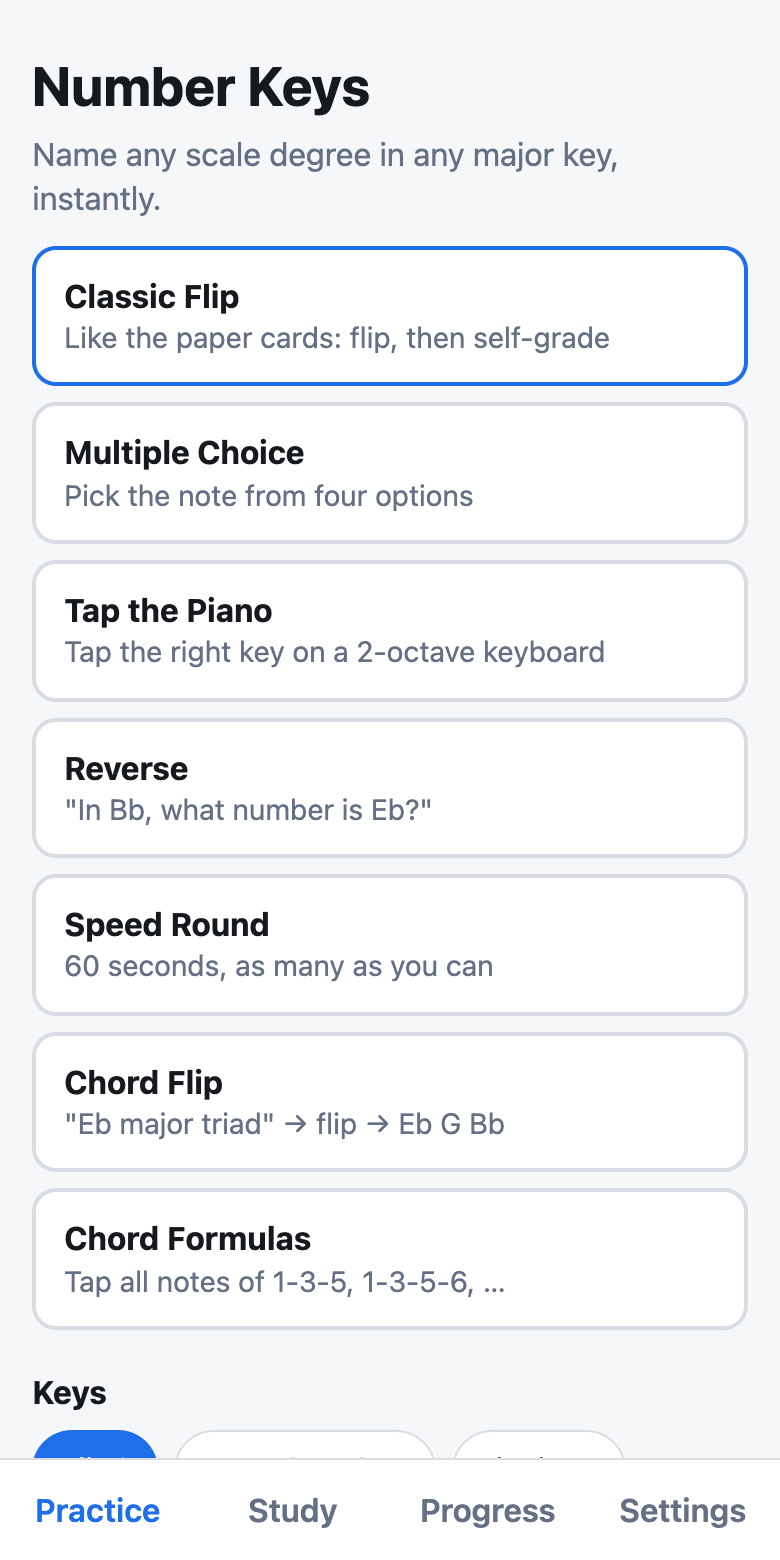
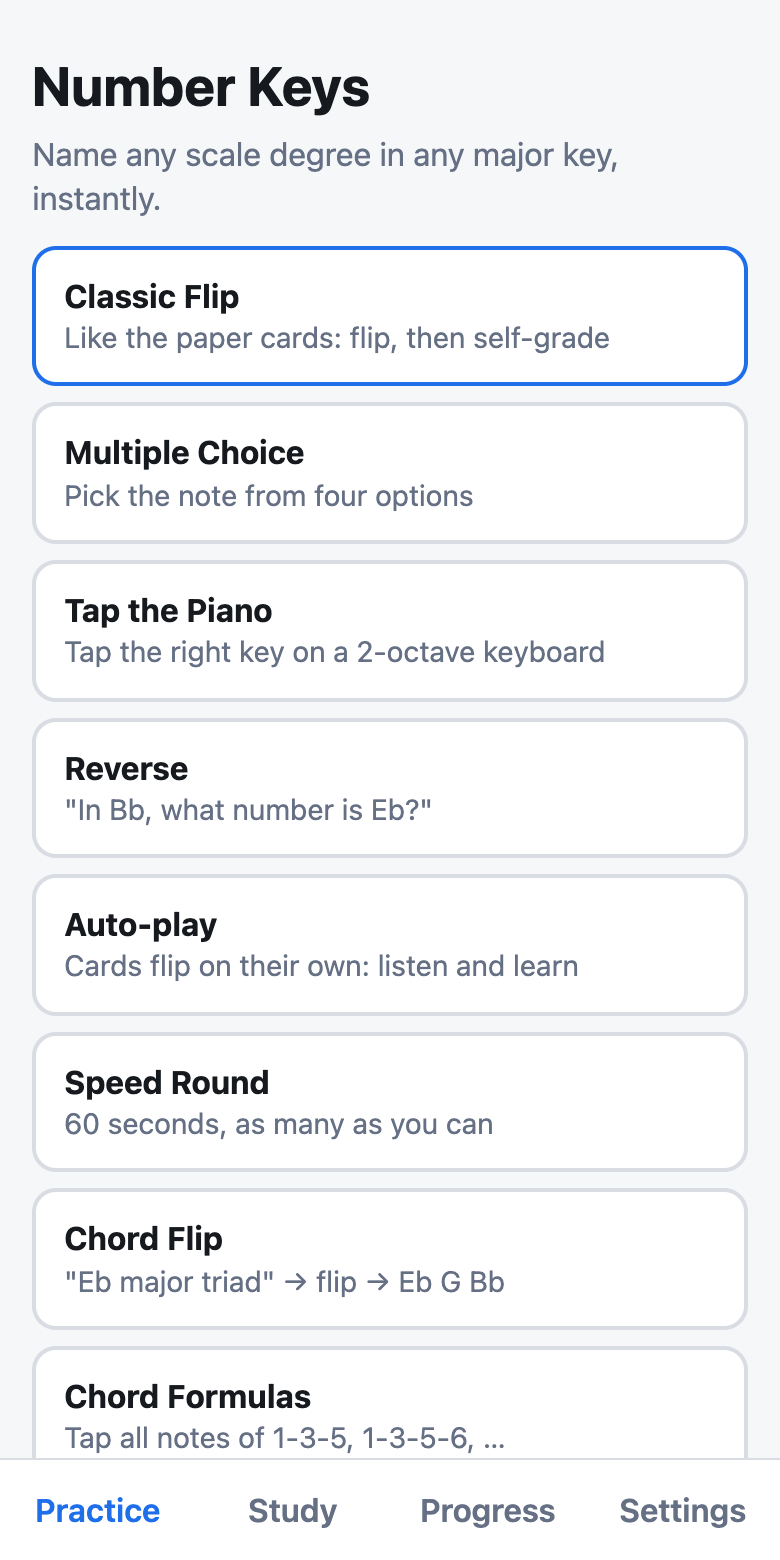
Add Auto-play: cards that flip, speak and advance on their own
Passive-learning mode for scale cards with Slow/Medium/Fast pacing, a voice
toggle that waits for speech to finish, pause/resume and a screen wake lock.
Records nothing, like Loop. Docs, screenshots and tests updated.

diff --git a/src/screens/AutoPlay.tsx b/src/screens/AutoPlay.tsx
@@ -1,0 +1,106 @@
+import { useEffect, useMemo, useRef, useState } from 'react'
+import { ORDINAL } from '../data/deck'
+import { AUTO_SPEEDS, AutoSpeed, MAX_SPEECH_WAIT_MS, passQueue } from '../lib/autoplay'
+import { playPc } from '../lib/audio'
+import { viewCard } from '../lib/cards'
+import { Filter, filterCards } from '../lib/session'
+import { canSpeak, scaleCardSpeech, speak, stopSpeaking } from '../lib/speech'
+import { pitchClass } from '../lib/theory'
+import { keepAwake } from '../lib/wakeLock'
+import { Card } from '../components/Card'
+import { MiniScale } from '../components/MiniScale'
+import { useApp } from '../state/store'
+
+/**
+ * Passive learning: each selected card is shown, then its answer is revealed (and spoken if Speak answers
+ * is on), then the next card follows by itself, round and round until you quit. Nothing here is recorded:
+ * you are listening, not being tested, so it must not touch spaced-repetition stats or the streak.
+ */
+export function AutoPlay({ filter, onExit }: { filter: Filter; onExit: () => void }) {
+  const { settings, setSettings } = useApp()
+  const [base] = useState(() => filterCards(filter))
+  const [i, setI] = useState(0)
+  const [phase, setPhase] = useState<'front' | 'back'>('front')
+  const [paused, setPaused] = useState(false)
+
+  const pass = Math.floor(i / base.length)
+  // eslint-disable-next-line react-hooks/exhaustive-deps
+  const queue = useMemo(() => passQueue(base, filter.order), [base, filter.order, pass])
+  const card = queue[i % base.length]
+  const v = viewCard(card, settings.sharpGb)
+
+  // Settings read when a step starts, so changing speed or voice mid-card takes effect from the next step.
+  const live = useRef(settings)
+  live.current = settings
+
+  useEffect(() => {
+    if (paused) return
+    const speeds = AUTO_SPEEDS[live.current.autoSpeed]
+    if (phase === 'front') {
+      const t = window.setTimeout(() => setPhase('back'), speeds.front)
+      return () => window.clearTimeout(t)
+    }
+    // Answer side: move on once the pause has passed AND the voice has finished, so it is never cut off.
+    let timerDone = false
+    let speechDone = !live.current.speak
+    let over = false
+    const next = () => {
+      if (!over && timerDone && speechDone) {
+        setPhase('front')
+        setI((x) => x + 1)
+      }
+    }
+    playPc(pitchClass(v.answer), 4, live.current.muted)
+    if (live.current.speak) speak(scaleCardSpeech(card.degree, v.keyName, v.answer), () => { speechDone = true; next() })
+    const t1 = window.setTimeout(() => { timerDone = true; next() }, speeds.back)
+    const t2 = window.setTimeout(() => { speechDone = true; next() }, MAX_SPEECH_WAIT_MS)
+    return () => {
+      over = true
+      window.clearTimeout(t1)
+      window.clearTimeout(t2)
+      stopSpeaking()
+    }
+    // eslint-disable-next-line react-hooks/exhaustive-deps
+  }, [phase, i, paused])
+
+  useEffect(() => (paused ? undefined : keepAwake()), [paused])
+
+  return (
+    <div className="session">
+      <div className="topbar">
+        <button className="link" onClick={onExit}>Quit</button>
+        <span>{paused ? 'Paused' : `${i + (phase === 'back' ? 1 : 0)} played`}</span>
+        <button className="link" onClick={() => setPaused((p) => !p)}>{paused ? 'Resume' : 'Pause'}</button>
+      </div>
+      <div className="q">
+        <Card flipped={phase === 'back'}>
+          {phase === 'front' ? (
+            <>
+              <div className="card-small">{ORDINAL[card.degree]} Tone</div>
+              <div className="card-big">{v.keyName}</div>
+            </>
+          ) : (
+            <>
+              <div className="card-small">{ORDINAL[card.degree]} tone of {v.keyName}</div>
+              <div className="card-big">{v.answer}</div>
+            </>
+          )}
+        </Card>
+        {phase === 'back' ? <MiniScale scale={v.scale} highlightDegree={card.degree} /> : <div className="autospace" />}
+        <div className="chips autocontrols">
+          {(Object.keys(AUTO_SPEEDS) as AutoSpeed[]).map((s) => (
+            <button key={s} className={`chip ${settings.autoSpeed === s ? 'on' : ''}`} onClick={() => setSettings({ autoSpeed: s })}>
+              {AUTO_SPEEDS[s].label}
+            </button>
+          ))}
+          {canSpeak() && (
+            <button className={`chip ${settings.speak ? 'on' : ''}`} onClick={() => setSettings({ speak: !settings.speak })}>
+              Voice {settings.speak ? 'on' : 'off'}
+            </button>
+          )}
+        </div>
+        <p className="muted loopstats">Cards play on their own and are not counted in Progress.</p>
+      </div>
+    </div>
+  )
+}

diff --git a/src/screens/Home.tsx b/src/screens/Home.tsx
@@ -1,6 +1,6 @@
 import { useState } from 'react'
 import { FilterPanel } from '../components/FilterPanel'
-import { Filter, defaultFilter, filterCards } from '../lib/session'
+import { Filter, Order, defaultFilter, filterCards } from '../lib/session'
 import { useApp } from '../state/store'
 import { Mode } from './Session'
 
@@ -9,10 +9,15 @@ const MODES: { id: Mode; name: string; desc: string }[] = [
   { id: 'choice', name: 'Multiple Choice', desc: 'Pick the note from four options' },
   { id: 'piano', name: 'Tap the Piano', desc: 'Tap the right key on a 2-octave keyboard' },
   { id: 'reverse', name: 'Reverse', desc: '"In Bb, what number is Eb?"' },
+  { id: 'auto', name: 'Auto-play', desc: 'Cards flip on their own: listen and learn' },
   { id: 'speed', name: 'Speed Round', desc: '60 seconds, as many as you can' },
   { id: 'chordflip', name: 'Chord Flip', desc: '"Eb major triad" → flip → Eb G Bb' },
   { id: 'chords', name: 'Chord Formulas', desc: 'Tap all notes of 1-3-5, 1-3-5-6, …' },
 ]
+
+/** Which orders make sense for each mode: Loop is for Classic Flip, Auto-play can't use Smart review. */
+const orderChoices = (m: Mode): Order[] =>
+  m === 'flip' ? ['original', 'shuffled', 'smart', 'loop'] : m === 'auto' ? ['original', 'shuffled'] : ['original', 'shuffled', 'smart']
 
 export function Home({ onStart, filter, setFilter }: { onStart: (m: Mode) => void; filter: Filter; setFilter: (f: Filter) => void }) {
   const { settings } = useApp()
@@ -27,13 +32,13 @@ export function Home({ onStart, filter, setFilter }: { onStart: (m: Mode) => voi
       <p className="muted">Name any scale degree in any major key, instantly.</p>
       <div className="modes">
         {MODES.map((m) => (
-          <button key={m.id} className={`mode ${mode === m.id ? 'on' : ''}`} onClick={() => { setMode(m.id); if (m.id !== 'flip' && filter.order === 'loop') setFilter({ ...filter, order: 'original' }) }}>
+          <button key={m.id} className={`mode ${mode === m.id ? 'on' : ''}`} onClick={() => { setMode(m.id); if (!orderChoices(m.id).includes(filter.order)) setFilter({ ...filter, order: 'original' }) }}>
             <b>{m.name}</b><span>{m.desc}</span>
           </button>
         ))}
       </div>
       <FilterPanel filter={filter} onChange={setFilter} sharpGb={settings.sharpGb}
-        showOrder={mode !== 'speed' && mode !== 'chords' && mode !== 'chordflip'} showLoop={mode === 'flip'} />
+        showOrder={mode !== 'speed' && mode !== 'chords' && mode !== 'chordflip'} orders={orderChoices(mode)} />
       <button className="btn primary wide start" disabled={disabled} onClick={() => onStart(mode)}>Start</button>
       <button className="link" onClick={() => setFilter(defaultFilter())}>Reset filters</button>
     </div>

diff --git a/src/components/FilterPanel.tsx b/src/components/FilterPanel.tsx
@@ -6,13 +6,14 @@ import { useDoubleTap } from '../lib/useDoubleTap'
 const same = (a: unknown[], b: unknown[]) => a.length === b.length && a.every((x) => b.includes(x))
 const toggle = <T,>(arr: T[], x: T) => (arr.includes(x) ? arr.filter((y) => y !== x) : [...arr, x])
 
-export function FilterPanel({ filter, onChange, sharpGb, showOrder = true, showLoop = false }: {
-  filter: Filter; onChange: (f: Filter) => void; sharpGb: boolean; showOrder?: boolean; showLoop?: boolean
+const ALL_ORDERS: [Order, string][] = [['original', 'Original'], ['shuffled', 'Shuffled'], ['smart', 'Smart review'], ['loop', 'Loop']]
+
+export function FilterPanel({ filter, onChange, sharpGb, showOrder = true, orders: offered = ['original', 'shuffled', 'smart'] }: {
+  filter: Filter; onChange: (f: Filter) => void; sharpGb: boolean; showOrder?: boolean; orders?: Order[]
 }) {
   // Tapping a chip twice quickly selects only that chip.
   const isDoubleTap = useDoubleTap()
-  const orders: [Order, string][] = [['original', 'Original'], ['shuffled', 'Shuffled'], ['smart', 'Smart review']]
-  if (showLoop) orders.push(['loop', 'Loop'])
+  const orders = ALL_ORDERS.filter(([o]) => offered.includes(o))
   return (
     <div className="filters">
       <h3>Keys</h3>

diff --git a/src/lib/speech.ts b/src/lib/speech.ts
@@ -23,15 +23,28 @@ export function chordCardSpeech(keyName: string, type: ChordType, notes: string[
 
 export const canSpeak = () => typeof window !== 'undefined' && 'speechSynthesis' in window
 
-/** Speaks `text`, replacing anything still being said. Silent if the browser has no speech support. */
-export function speak(text: string) {
+/**
+ * Speaks `text`, replacing anything still being said. Silent if the browser has no speech support.
+ * `onEnd` runs when speaking finishes or fails (immediately if speech is unavailable), and also when
+ * the speech is cut off by `stopSpeaking()` or by the next `speak()`.
+ */
+export function speak(text: string, onEnd?: () => void) {
   try {
-    if (!canSpeak()) return
+    if (!canSpeak()) return onEnd?.()
     window.speechSynthesis.cancel()
     const u = new SpeechSynthesisUtterance(text)
     u.lang = 'en-US'
     u.rate = 0.95
+    if (onEnd) u.onend = u.onerror = () => onEnd()
     window.speechSynthesis.speak(u)
+  } catch {
+    onEnd?.()
+  }
+}
+
+export function stopSpeaking() {
+  try {
+    if (canSpeak()) window.speechSynthesis.cancel()
   } catch {
     /* speech is optional */
   }

diff --git a/tests/autoplay.test.ts b/tests/autoplay.test.ts
@@ -1,0 +1,25 @@
+import { describe, expect, it } from 'vitest'
+import { DECK } from '../src/data/deck'
+import { AUTO_SPEEDS, MAX_SPEECH_WAIT_MS, passQueue } from '../src/lib/autoplay'
+
+describe('auto-play', () => {
+  it('gets quicker from slow to fast on both sides of the card', () => {
+    const { slow, medium, fast } = AUTO_SPEEDS
+    expect(slow.front).toBeGreaterThan(medium.front)
+    expect(medium.front).toBeGreaterThan(fast.front)
+    expect(slow.back).toBeGreaterThan(medium.back)
+    expect(medium.back).toBeGreaterThan(fast.back)
+  })
+
+  it('never waits on the voice longer than the slowest answer pause plus a few seconds', () => {
+    expect(MAX_SPEECH_WAIT_MS).toBeGreaterThan(AUTO_SPEEDS.slow.back)
+  })
+
+  it('keeps original order and reshuffles (same cards) for shuffled', () => {
+    const base = DECK.slice(0, 12)
+    expect(passQueue(base, 'original')).toEqual(base)
+    const shuffled = passQueue(base, 'shuffled')
+    expect([...shuffled].map((c) => c.id).sort()).toEqual(base.map((c) => c.id).sort())
+    expect(shuffled).not.toBe(base)
+  })
+})

diff --git a/src/lib/wakeLock.ts b/src/lib/wakeLock.ts
@@ -1,0 +1,27 @@
+/**
+ * Asks the browser to keep the screen on (Screen Wake Lock API) until the returned function is called.
+ * Where unsupported or refused it does nothing. Phones still stop a page when the screen is locked or
+ * another app is opened, and re-request the lock when the page becomes visible again.
+ */
+export function keepAwake(): () => void {
+  let lock: WakeLockSentinel | null = null
+  let released = false
+  const acquire = async () => {
+    try {
+      if (!released && document.visibilityState === 'visible') lock = (await navigator.wakeLock?.request('screen')) ?? null
+    } catch {
+      /* wake lock is optional */
+    }
+  }
+  const onVisible = () => {
+    if (document.visibilityState === 'visible') void acquire()
+  }
+  document.addEventListener('visibilitychange', onVisible)
+  void acquire()
+  return () => {
+    released = true
+    document.removeEventListener('visibilitychange', onVisible)
+    void lock?.release().catch(() => undefined)
+    lock = null
+  }
+}

diff --git a/src/App.tsx b/src/App.tsx
@@ -1,6 +1,7 @@
 import { useState } from 'react'
 import { ChordDrill } from './modes/ChordDrill'
 import { ChordFlip } from './modes/ChordFlip'
+import { AutoPlay } from './screens/AutoPlay'
 import { LoopSession } from './screens/LoopSession'
 import { SpeedRound } from './modes/SpeedRound'
 import { Home } from './screens/Home'
@@ -24,7 +25,8 @@ function Shell() {
   if (mode) {
     return (
       <main className="app">
-        {mode === 'speed' ? <SpeedRound filter={filter} onExit={exit} />
+        {mode === 'auto' ? <AutoPlay filter={filter} onExit={exit} />
+          : mode === 'speed' ? <SpeedRound filter={filter} onExit={exit} />
           : mode === 'flip' && filter.order === 'loop' ? <LoopSession filter={filter} onExit={exit} />
           : mode === 'chordflip' ? <ChordFlip keys={filter.keys} onExit={exit} />
           : mode === 'chords' ? <ChordDrill keys={filter.keys} onExit={exit} />

diff --git a/src/lib/autoplay.ts b/src/lib/autoplay.ts
@@ -1,0 +1,17 @@
+import type { Card } from '../data/deck'
+import { Order, shuffle } from './session'
+
+export type AutoSpeed = 'slow' | 'medium' | 'fast'
+
+/** How long each side of a card stays up (ms): the question, then the answer. */
+export const AUTO_SPEEDS: Record<AutoSpeed, { label: string; front: number; back: number }> = {
+  slow: { label: 'Slow', front: 4000, back: 3000 },
+  medium: { label: 'Medium', front: 3000, back: 2000 },
+  fast: { label: 'Fast', front: 2000, back: 1500 },
+}
+
+/** After the answer is shown, the voice may run past the pause; never wait on it longer than this. */
+export const MAX_SPEECH_WAIT_MS = 7000
+
+/** The cards for one pass of Auto-play: original order, or a fresh shuffle each pass. */
+export const passQueue = (base: Card[], order: Order): Card[] => (order === 'shuffled' ? shuffle(base) : base)

diff --git a/src/lib/storage.ts b/src/lib/storage.ts
@@ -1,3 +1,5 @@
+import type { AutoSpeed } from './autoplay'
+
 export type Theme = 'system' | 'light' | 'dark'
 
 export interface CardStats {
@@ -14,6 +16,7 @@ export interface Settings {
   sharpGb: boolean
   muted: boolean
   speak: boolean
+  autoSpeed: AutoSpeed
   theme: Theme
 }
 
@@ -36,7 +39,7 @@ export const defaultStore = (): Store => ({
   daily: {},
   total: 0,
   chords: { correct: 0, missed: 0 },
-  settings: { sharpGb: false, muted: false, speak: false, theme: 'system' },
+  settings: { sharpGb: false, muted: false, speak: false, autoSpeed: 'medium', theme: 'system' },
 })
 
 function normalize(raw: unknown): Store | null {

diff --git a/src/screens/Session.tsx b/src/screens/Session.tsx
@@ -10,7 +10,7 @@ import { TapPiano } from '../modes/TapPiano'
 import { QProps } from '../modes/types'
 import { viewCard } from '../lib/cards'
 
-export type Mode = 'flip' | 'choice' | 'piano' | 'reverse' | 'speed' | 'chords' | 'chordflip'
+export type Mode = 'flip' | 'choice' | 'piano' | 'reverse' | 'speed' | 'chords' | 'chordflip' | 'auto'
 
 const COMPONENTS: Record<'flip' | 'choice' | 'piano' | 'reverse', (p: QProps) => React.JSX.Element> = {
   flip: ClassicFlip, choice: MultipleChoice, piano: TapPiano, reverse: Reverse,

diff --git a/src/styles.css b/src/styles.css
@@ -107,3 +107,5 @@ span.chip { min-height: 0; padding: 4px 10px; }
 .heat.tight .cell { aspect-ratio: auto; height: 28px; border-radius: 6px; font-size: .7rem; }
 .heat.tight .heat-h { font-size: .72rem; padding-right: 2px; }
 .loopstats { text-align: center; margin: 4px 0 0; }
+.autospace { height: 120px; }
+.autocontrols { justify-content: center; margin-top: 8px; }

diff --git a/docs/PROJECT.md b/docs/PROJECT.md
@@ -17,7 +17,7 @@ Number Keys is a flash card web app that teaches piano players to name scale ton
 | --- | --- |
 | Scale deck | 84 cards: 7 degrees in each of 12 keys, in circle-of-fourths order |
 | Chord deck | 192 cards: 16 chord types (major, minor, dominant, sus, dim/aug) in each of 12 keys |
-| Practice modes | Classic Flip, Multiple Choice, Tap the Piano, Reverse, Speed Round, Chord Flip, Chord Formulas |
+| Practice modes | Classic Flip, Multiple Choice, Tap the Piano, Reverse, Speed Round, Auto-play, Chord Flip, Chord Formulas |
 | Filters | Keys, degrees, chord types; presets; double-tap to select one; Original, Shuffled and Smart review order, plus Loop for Classic Flip |
 | Spaced repetition | Leitner boxes per card, with a mastery rule; shared by scale and chord cards |
 | Study tab | Labeled keyboards for every scale and every chord type |
@@ -62,9 +62,9 @@ The app is five layers, and each layer only calls the one below it. Screens and 
 ```mermaid
 flowchart TD
     S["<b>Screens</b><br/>App.tsx: four tabs, or a full-screen session with no tab bar<br/>Practice (Home) · Session · Study · Progress · Settings"]
-    M["<b>Practice modes</b> (src/modes)<br/>Classic Flip · Multiple Choice · Tap the Piano · Reverse<br/>Speed Round · Chord Flip · Chord Formulas"]
+    M["<b>Practice modes</b> (src/modes)<br/>Classic Flip · Multiple Choice · Tap the Piano · Reverse<br/>Speed Round · Auto-play · Chord Flip · Chord Formulas"]
     T["<b>State and storage</b><br/>store.tsx (useApp) · storage.ts"]
-    L["<b>Logic</b> (src/lib)<br/>session · leitner · theory · chordNotes · distractors · audio · speech"]
+    L["<b>Logic</b> (src/lib)<br/>session · leitner · theory · chordNotes · distractors · audio · speech · autoplay · wakeLock"]
     D["<b>Data</b> (src/data)<br/>deck.ts: 84 scale cards · chords.ts: 16 chord types"]
     LS[("localStorage<br/>number-keys:v1")]
     S --> M --> T --> L --> D
@@ -84,9 +84,10 @@ flowchart TD
 - **App shell** (`src/App.tsx`). Shows one of four tabs, or a full-screen session when a mode is running. The session has no tab bar, which is how the Study tab stays out of reach during a quiz.
 - **Session** (`src/screens/Session.tsx`). Runs a single pass over a queue built by `buildQueue()`, for Classic Flip, Multiple Choice, Tap the Piano and Reverse. Speed Round, Chord Flip and Chord Formulas run their own loops.
 - **Filters and order** (`src/lib/session.ts`, `FilterPanel`). A `Filter` is the selected keys, degrees and order. Presets, the None button and the double-tap rule (`useDoubleTap`) all edit it.
-- **Loop** (`src/screens/LoopSession.tsx`). The `loop` order is offered for Classic Flip only. `App.tsx` routes it to `LoopSession`, which cycles the filtered cards endlessly and shows the rep count and last, average and fastest flip times. It deliberately records nothing: back-to-back repeats are not spaced recall, and recording them would inflate boxes and mastery. Choosing another mode on the Practice screen resets the order from `loop` to `original`.
+- **Loop** (`src/screens/LoopSession.tsx`). The `loop` order is offered for Classic Flip only. `App.tsx` routes it to `LoopSession`, which cycles the filtered cards endlessly and shows the rep count and last, average and fastest flip times. It deliberately records nothing: back-to-back repeats are not spaced recall, and recording them would inflate boxes and mastery. Choosing a mode on the Practice screen resets the order to `original` if the new mode does not offer it (`orderChoices` in `Home.tsx`: Loop is Classic Flip only, Smart review is not offered for Auto-play).
 - **Shared chord pieces.** `chordNotes()` spells a chord, `ChordMini` draws it on a keyboard, and `ChordTypePicker` chooses types. Chord Flip, Chord Formulas and the Study tab all use them.
-- **Spoken answers** (`src/lib/speech.ts`). The `speak` setting (off by default, separate from `muted`) makes Classic Flip, Loop and Chord Flip say the answer when a card is flipped, using the browser's built-in `speechSynthesis`. Speech engines misread note and chord names, so `noteWords()` writes notes out (`Bb` becomes "bee flat", `Bbb` "bee double flat") and each chord type carries a `spoken` name. The quiz modes are deliberately silent.
+- **Auto-play** (`src/screens/AutoPlay.tsx`, `src/lib/autoplay.ts`). A passive mode: it walks the filtered cards (Original or Shuffled, reshuffled each pass) showing the question for `AUTO_SPEEDS[speed].front` ms and the answer for `.back` ms, playing the note and speaking if `speak` is on. After the answer pause it also waits for the voice to finish (`speak()` takes an `onEnd` callback; `MAX_SPEECH_WAIT_MS` caps the wait in case a browser never reports the end). It requests a screen wake lock (`src/lib/wakeLock.ts`) while running. Like Loop it records nothing. The chosen speed is the `autoSpeed` setting.
+- **Spoken answers** (`src/lib/speech.ts`). The `speak` setting (off by default, separate from `muted`) makes Classic Flip, Loop, Chord Flip and Auto-play say the answer when it is revealed, using the browser's built-in `speechSynthesis`. Speech engines misread note and chord names, so `noteWords()` writes notes out (`Bb` becomes "bee flat", `Bbb` "bee double flat") and each chord type carries a `spoken` name. The quiz modes are deliberately silent.
 - **Display only.** `viewCard()` turns a stored card into what is shown, applying the F# for Gb setting.
 
 ## Music theory rules
@@ -114,7 +115,7 @@ interface Store {
   daily: Record<string, number>       // YYYY-MM-DD -> cards practiced (drives the streak)
   total: number                       // scale cards practiced
   chords: { correct: number; missed: number }
-  settings: { sharpGb: boolean; muted: boolean; speak: boolean; theme: 'system' | 'light' | 'dark' }
+  settings: { sharpGb: boolean; muted: boolean; speak: boolean; autoSpeed: 'slow' | 'medium' | 'fast'; theme: 'system' | 'light' | 'dark' }
 }
 
 interface CardStats {
@@ -176,12 +177,13 @@ Loop reps (see Architecture) are not recorded at all, so they never change boxes
 
 ## Testing
 
-There are 38 tests in four files, and they run in about a tenth of a second. They cover the logic and the music rules. The UI has no automated tests; it has been checked by hand in a browser at phone width.
+There are 41 tests in five files, and they run in about a tenth of a second. They cover the logic and the music rules. The UI has no automated tests; it has been checked by hand in a browser at phone width.
 
 | File | Tests | What it checks |
 | --- | --- | --- |
 | `tests/scales.test.ts` | 18 | The 84-card deck matches generated scales for each of the 12 keys, each scale uses every letter once, known tricky spellings, original card order, and Gb = F# pitches |
 | `tests/chords.test.ts` | 4 | Every chord in every key has the right pitches and letters (with and without F# for Gb), 8 hand-checked chords, and chord type ids are unique with no `-` |
+| `tests/autoplay.test.ts` | 3 | Speeds get quicker from slow to fast, the voice wait cap is sensible, and the Original/Shuffled passes keep the same cards |
 | `tests/speech.test.ts` | 4 | Note names are spoken as plain words for every note any card can show, the sentences are built correctly, and every chord type has a spoken name |
 | `tests/logic.test.ts` | 12 | Distractor rules, Leitner moves, mastery, smart ordering, filters, loop order, day streaks, and the 192 chord card ids |
 
